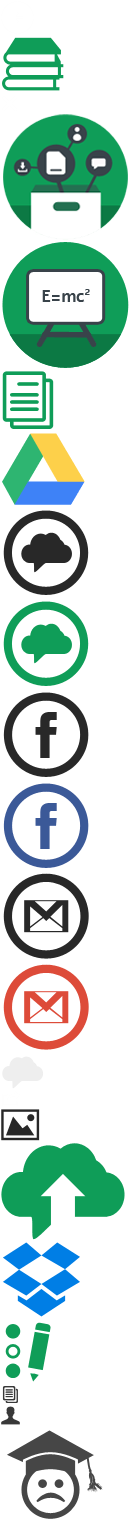
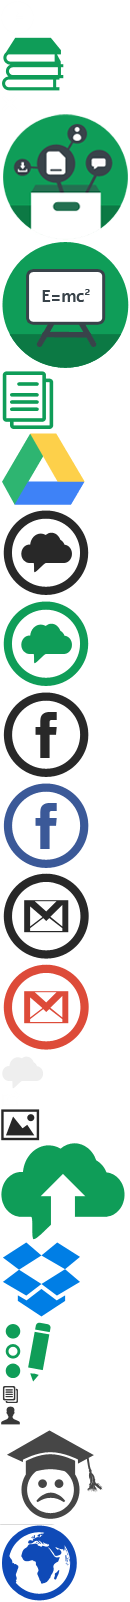
updated site sprite

diff --git a/Zbang.Cloudents.Mvc4WebRole/Images/site.png.css b/Zbang.Cloudents.Mvc4WebRole/Images/site.png.css
@@ -1,3 +1,141 @@
 /*
-@import this file directly into your existing Less files to use these mixins
+This is an example of how to use the image sprite in your own CSS files
 */
+.Images-back_back {
+/* You may have to set 'display: block' */
+	width: 35px;
+	height: 35px;
+	background: url('site.png') 0 0;
+}
+.Images-books {
+/* You may have to set 'display: block' */
+	width: 65px;
+	height: 59px;
+	background: url('site.png') 0 -35px;
+}
+.Images-close {
+/* You may have to set 'display: block' */
+	width: 19px;
+	height: 19px;
+	background: url('site.png') 0 -94px;
+}
+.Images-course {
+/* You may have to set 'display: block' */
+	width: 130px;
+	height: 128px;
+	background: url('site.png') 0 -113px;
+}
+.Images-department {
+/* You may have to set 'display: block' */
+	width: 130px;
+	height: 128px;
+	background: url('site.png') 0 -241px;
+}
+.Images-document {
+/* You may have to set 'display: block' */
+	width: 56px;
+	height: 62px;
+	background: url('site.png') 0 -369px;
+}
+.Images-drive_upload {
+/* You may have to set 'display: block' */
+	width: 86px;
+	height: 76px;
+	background: url('site.png') 0 -431px;
+}
+.Images-friends_cloudents_black {
+/* You may have to set 'display: block' */
+	width: 91px;
+	height: 91px;
+	background: url('site.png') 0 -507px;
+}
+.Images-friends_cloudents_green {
+/* You may have to set 'display: block' */
+	width: 91px;
+	height: 91px;
+	background: url('site.png') 0 -598px;
+}
+.Images-friends_facebook_black {
+/* You may have to set 'display: block' */
+	width: 91px;
+	height: 91px;
+	background: url('site.png') 0 -689px;
+}
+.Images-friends_facebook_blue {
+/* You may have to set 'display: block' */
+	width: 91px;
+	height: 91px;
+	background: url('site.png') 0 -780px;
+}
+.Images-friends_gmail_black {
+/* You may have to set 'display: block' */
+	width: 91px;
+	height: 91px;
+	background: url('site.png') 0 -871px;
+}
+.Images-friends_gmail_red {
+/* You may have to set 'display: block' */
+	width: 91px;
+	height: 91px;
+	background: url('site.png') 0 -962px;
+}
+.Images-placeholder_user_img {
+/* You may have to set 'display: block' */
+	width: 46px;
+	height: 37px;
+	background: url('site.png') 0 -1053px;
+}
+.Images-share_white {
+/* You may have to set 'display: block' */
+	width: 22px;
+	height: 18px;
+	background: url('site.png') 0 -1090px;
+}
+.Images-uni_logo {
+/* You may have to set 'display: block' */
+	width: 41px;
+	height: 34px;
+	background: url('site.png') 0 -1108px;
+}
+.Images-upload {
+/* You may have to set 'display: block' */
+	width: 126px;
+	height: 98px;
+	background: url('site.png') 0 -1142px;
+}
+.Images-web_upload {
+/* You may have to set 'display: block' */
+	width: 82px;
+	height: 79px;
+	background: url('site.png') 0 -1240px;
+}
+.Images-quiz {
+/* You may have to set 'display: block' */
+	width: 55px;
+	height: 65px;
+	background: url('site.png') 0 -1319px;
+}
+.Images-icon_doc {
+/* You may have to set 'display: block' */
+	width: 21px;
+	height: 21px;
+	background: url('site.png') 0 -1384px;
+}
+.Images-icon_man {
+/* You may have to set 'display: block' */
+	width: 21px;
+	height: 21px;
+	background: url('site.png') 0 -1405px;
+}
+.Images-no_results_icon {
+/* You may have to set 'display: block' */
+	width: 108px;
+	height: 98px;
+	background: url('site.png') 0 -1426px;
+}
+.Images-earth {
+/* You may have to set 'display: block' */
+	width: 79px;
+	height: 78px;
+	background: url('site.png') 0 -1524px;
+}

diff --git a/Zbang.Cloudents.Mvc4WebRole/Content/DashLib.css b/Zbang.Cloudents.Mvc4WebRole/Content/DashLib.css
@@ -290,7 +290,7 @@
   margin-bottom: 12px;
 }
 .setupCourse .closeDialog {
-  background: url(/Images/site.png?v=1) 0 -94px no-repeat;
+  background: url(/Images/site.png?v=2) 0 -94px no-repeat;
   width: 19px;
   height: 19px;
 }
@@ -324,7 +324,7 @@
   position: absolute;
   width: 65px;
   height: 59px;
-  background: url(/Images/site.png?v=1) 0 -35px no-repeat;
+  background: url(/Images/site.png?v=2) 0 -35px no-repeat;
   top: 63px;
   left: 7px;
 }
@@ -375,7 +375,7 @@
   display: block;
   width: 130px;
   height: 128px;
-  background: url(/Images/site.png?v=1) 0 -113px no-repeat;
+  background: url(/Images/site.png?v=2) 0 -113px no-repeat;
   margin: 0 auto;
 }
 .browseCourses {
@@ -469,7 +469,7 @@
   display: inline-block;
   width: 21px;
   height: 21px;
-  background: url(/Images/site.png?v=1) 0 -1405px no-repeat;
+  background: url(/Images/site.png?v=2) 0 -1405px no-repeat;
   position: absolute;
   left: -25px;
   top: 0;
@@ -707,7 +707,7 @@
 .socialWpr button {
   width: 91px;
   height: 91px;
-  background: url(/Images/site.png?v=1) no-repeat;
+  background: url(/Images/site.png?v=2) no-repeat;
   margin: 40px 0;
 }
 .socialWpr .cloudentsBtn {
@@ -884,7 +884,7 @@
   display: block;
   width: 126px;
   height: 98px;
-  background: url(/Images/site.png?v=1) 0 -1142px no-repeat;
+  background: url(/Images/site.png?v=2) 0 -1142px no-repeat;
   margin: 55px auto 20px;
 }
 .uploadSrcWpr {
@@ -899,14 +899,14 @@
 }
 .uploadSrcWpr button:before {
   content: '';
-  background: url(/Images/site.png?v=1) no-repeat;
+  background: url(/Images/site.png?v=2) no-repeat;
   margin: 85px auto 10px;
   display: block;
 }
 .uploadSrcWpr .linkBtn:before {
-  width: 82px;
-  height: 79px;
-  background-position: 0 -1240px;
+  width: 79px;
+  height: 78px;
+  background-position: 0 -1524px;
 }
 .uploadSrcWpr .dropBoxBtn {
   margin: 0 90px;

diff --git a/Zbang.Cloudents.Mvc4WebRole/Content/DashLib.less b/Zbang.Cloudents.Mvc4WebRole/Content/DashLib.less
@@ -924,9 +924,9 @@
         }
     }
     .linkBtn:before {
-        width: 82px;
-	    height: 79px;
-	    background-position: 0 -1240px;
+        width: 79px;
+	    height: 78px;
+	    background-position: 0 -1524px;
     }
     .dropBoxBtn {
         margin: 0 90px;

diff --git a/Zbang.Cloudents.Mvc4WebRole/Content/General.css b/Zbang.Cloudents.Mvc4WebRole/Content/General.css
@@ -2336,7 +2336,7 @@ select.inputText {
   display: block;
   width: 108px;
   height: 98px;
-  background: url(/Images/site.png?v=1) 0 -1426px no-repeat;
+  background: url(/Images/site.png?v=2) 0 -1426px no-repeat;
   margin: 0 auto;
 }
 .emptySearchAdmin:after {

diff --git a/Zbang.Cloudents.Mvc4WebRole/Content/varsAndMixins.less b/Zbang.Cloudents.Mvc4WebRole/Content/varsAndMixins.less
@@ -33,7 +33,7 @@
 @user-sprite: url(/Images/user13-sprite.png?v=1);
 
 @quiz-sprite: url(/Images/quizSprite.png?v=1);
-@site-sprite: url(/Images/site.png?v=1);
+@site-sprite: url(/Images/site.png?v=2);
 @header-height: 50px;
 @footer-height: 24px;
 

diff --git a/Zbang.Cloudents.Mvc4WebRole/Content/Quiz.css b/Zbang.Cloudents.Mvc4WebRole/Content/Quiz.css
@@ -1,4 +1,4 @@
-/*#region variables */
+/*#region variables */
 /*#endregion */
 /*#region mixins */
 /*#endregion */
@@ -1156,3 +1156,4 @@ body.quiz .shareBtn {
   background: #4f5d67;
 }
 /*#endregion */
+/*# sourceMappingURL=Quiz.css.map */

diff --git a/Zbang.Cloudents.Mvc4WebRole/Images/site.png.scss b/Zbang.Cloudents.Mvc4WebRole/Images/site.png.scss
@@ -133,3 +133,9 @@
 	height: 98px;
 	background: url('site.png') 0 -1426px;
 }
+@mixin sprite-Images-earth() {
+/* You may have to set 'display: block' */
+	width: 79px;
+	height: 78px;
+	background: url('site.png') 0 -1524px;
+}

diff --git a/Zbang.Cloudents.Mvc4WebRole/Images/site.png.less b/Zbang.Cloudents.Mvc4WebRole/Images/site.png.less
@@ -133,3 +133,9 @@
 	height: 98px;
 	background: url('site.png') 0 -1426px;
 }
+.sprite-Images-earth() {
+/* You may have to set 'display: block' */
+	width: 79px;
+	height: 78px;
+	background: url('site.png') 0 -1524px;
+}

diff --git a/Zbang.Cloudents.Mvc4WebRole/Content/Search.css b/Zbang.Cloudents.Mvc4WebRole/Content/Search.css
@@ -1,4 +1,4 @@
-/*#region variables */
+/*#region variables */
 /*#endregion */
 /*#region mixins */
 /*#endregion */
@@ -385,3 +385,4 @@
   color: #0371c8;
 }
 /*#endregion */
+/*# sourceMappingURL=Search.css.map */

diff --git a/Zbang.Cloudents.Mvc4WebRole/Content/Modal.css b/Zbang.Cloudents.Mvc4WebRole/Content/Modal.css
@@ -1,4 +1,4 @@
-/*#region variables */
+/*#region variables */
 /*#endregion */
 /*#region mixins */
 /*#endregion */
@@ -720,3 +720,4 @@
   display: block;
 }
 /*#endregion */
+/*# sourceMappingURL=Modal.css.map */
